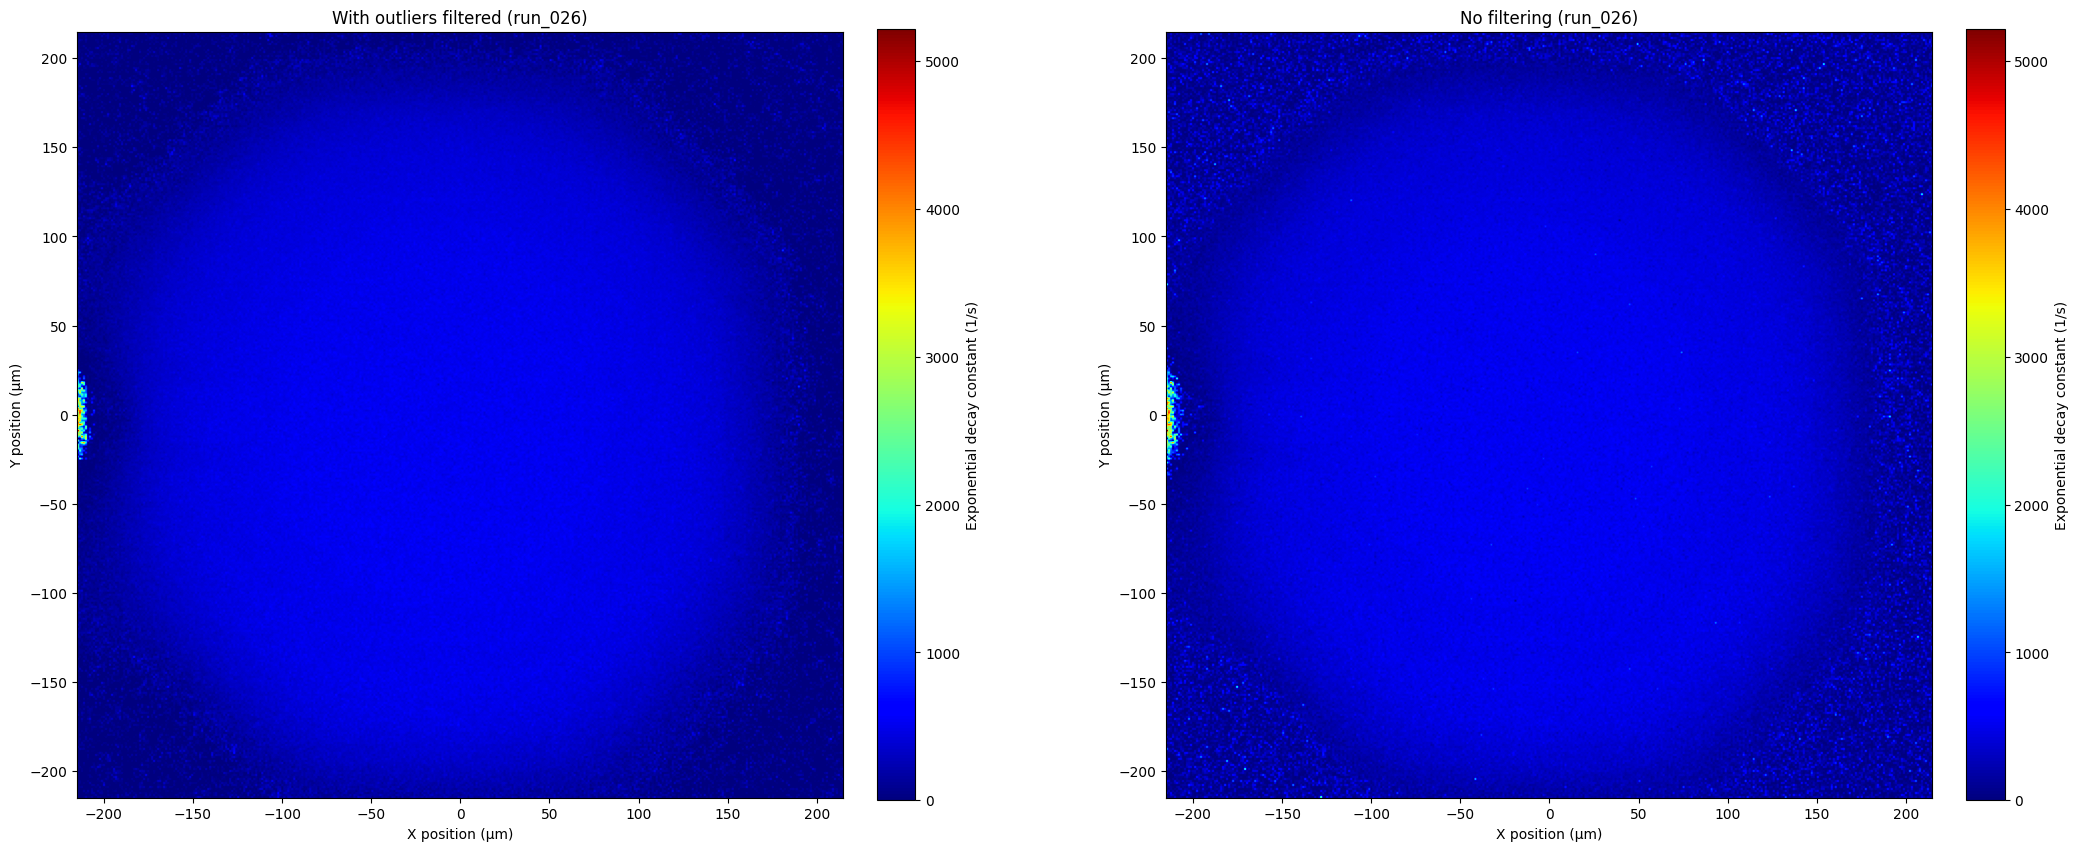
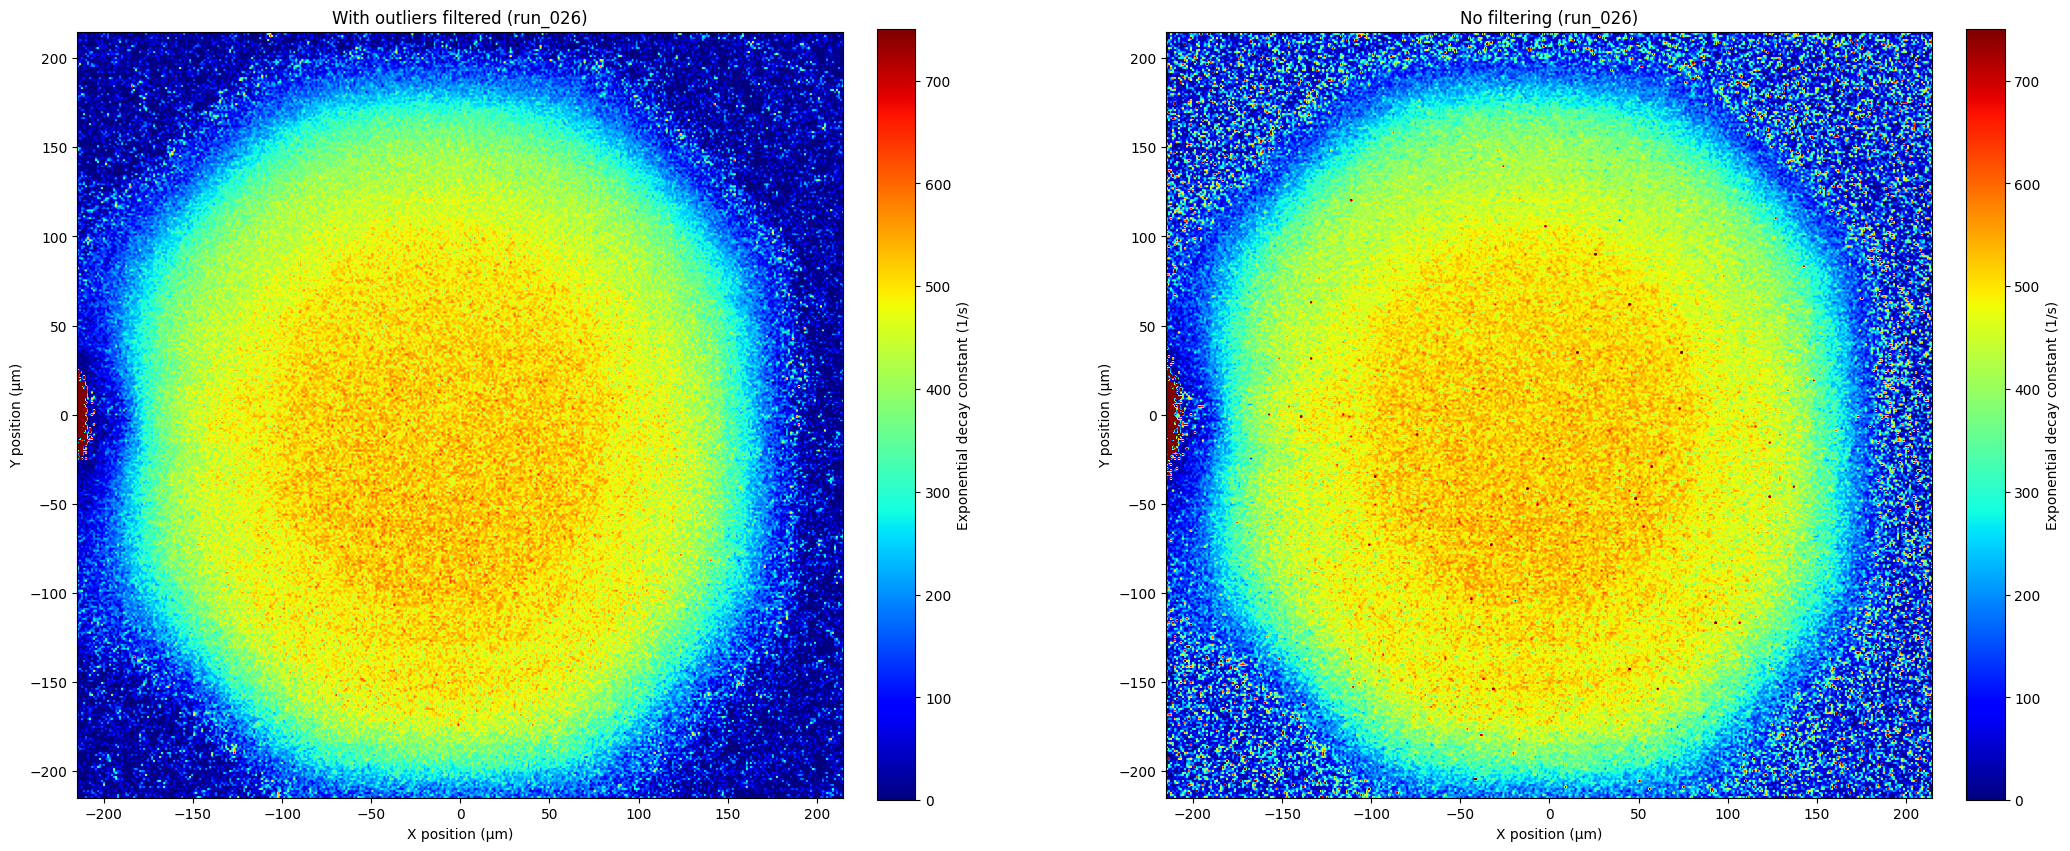
Added limit to exp decay plot run 26

diff --git a/new/model_isolationforest.py b/new/model_isolationforest.py
@@ -458,6 +458,10 @@ def plot_λ(df: pd.DataFrame, df_filtered: pd.DataFrame, run_number: int):
     axs[1].set_ylabel("Y position (µm)")
 
     # Use color scale of filtered heatmap for unfiltered to prevent extreme color changes
+    #TODO manual adjustment
+    if run_number == 26:
+        h1.set_clim(h1.get_clim()[0], 750)
+    
     h2.set_clim(h1.get_clim())
 
     plt.savefig(
